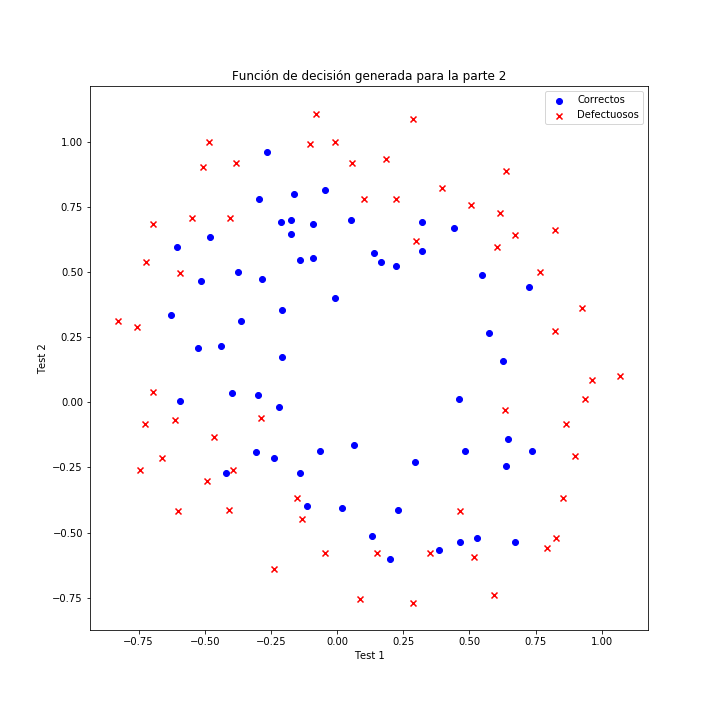
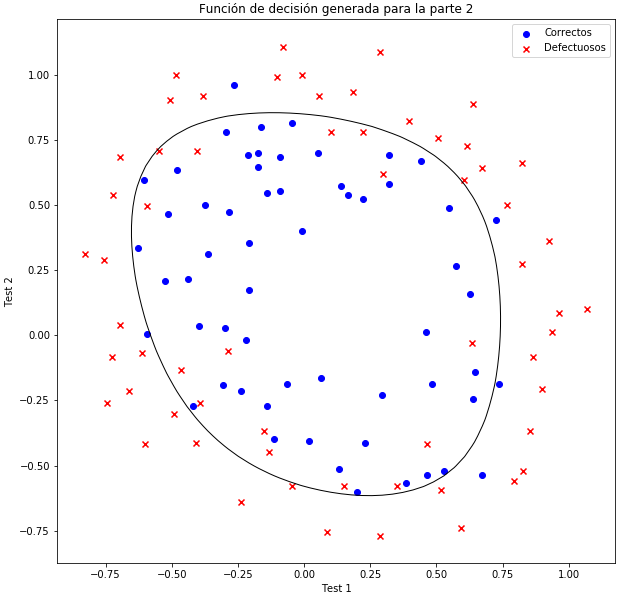
Práctica 2 terminada

diff --git a/Práctica 2/Práctica2.py b/Práctica 2/Práctica2.py
@@ -1,5 +1,5 @@
 '''
-Práctica 1
+Práctica 2
 
 Rubén Ruperto Díaz y Rafael Herrera Troca
 '''
@@ -109,13 +109,13 @@ plt.legend(loc="upper right")
 plt.savefig("p2Datos.png")
 plt.show()
 
-# Aplicamos PolynomialFeatures para mapear los atributos y obtener un mejor
-# ajuste a los ejemplos de entrenamiento
+# Aplicamos PolynomialFeatures para mapear los atributos y obtener 
+# un mejor ajuste a los ejemplos de entrenamiento
 X2 = PolynomialFeatures(6).fit_transform(X)
 
 # Calculamos el valor óptimo de theta
 theta0 = np.zeros(np.shape(X2)[1])
-result = fmin_tnc(func=costeP2, x0=theta0, fprime=gradienteP2, args=(X2, Y, 0))[0]
+result = fmin_tnc(func=costeP2, x0=theta0, fprime=gradienteP2, args=(X2, Y))[0]
 
 # Representamos el resultado obtenido
 xx1, xx2 = np.meshgrid(np.linspace(min(X[:,0]),max(X[:,0])), np.linspace(min(X[:,1]),max(X[:,1])))
@@ -136,3 +136,36 @@ plt.show()
 # Comprobamos el porcentaje de aciertos de la recta obtenida
 porc_ac = acierto(X2, Y, result)
 print("Se tiene un " + str(porc_ac*100) + "% de aciertos")
+
+# Repetimos el proceso anterior con distintos valores de lambda
+porc_ac = []
+for lmb in range(-10, 3):
+    theta0 = np.zeros(np.shape(X2)[1])
+    result = fmin_tnc(func=costeP2, x0=theta0, fprime=gradienteP2, args=(X2, Y, 10**lmb))[0]
+    
+    xx1, xx2 = np.meshgrid(np.linspace(min(X[:,0]),max(X[:,0])), np.linspace(min(X[:,1]),max(X[:,1])))
+    mesh = PolynomialFeatures(6).fit_transform(np.c_[xx1.ravel(),xx2.ravel()])
+    h = sigmoide(np.dot(mesh,result))
+    h = h.reshape(xx1.shape)
+    plt.figure(figsize=(10,10))
+    plt.scatter(X[corr, 0], X[corr, 1], marker='o', c='blue', label="Correctos")
+    plt.scatter(X[defe, 0], X[defe, 1], marker='x', c='red', label="Defectuosos")
+    plt.contour(xx1, xx2, h, [0.5], linewidths=1, colors='k')
+    plt.title(r"Función de decisión generada para $\lambda = $" + str(10**lmb))
+    plt.xlabel("Test 1")
+    plt.ylabel("Test 2")
+    plt.legend(loc="upper right")
+    plt.savefig("p2FuncionVL" + str(lmb) + ".png")
+    plt.show()
+    
+    porc_ac.append(acierto(X2, Y, result)*100)
+    print("Se tiene un " + str(porc_ac[-1]) + "% de aciertos para lambda " + str(10**lmb))
+
+# Representamos el porcentaje de aciertos según el valor de lambda
+plt.figure(figsize=(10,10))
+plt.plot(range(-10,3), porc_ac, 'ko-')
+plt.title(r"Porcentaje de aciertos según el valor de $\lambda$")
+plt.xlabel(r"$\lambda = 10^{x}$")
+plt.ylabel("Porcentaje de acierto")
+plt.savefig("AcXLambda.png")
+plt.show()
